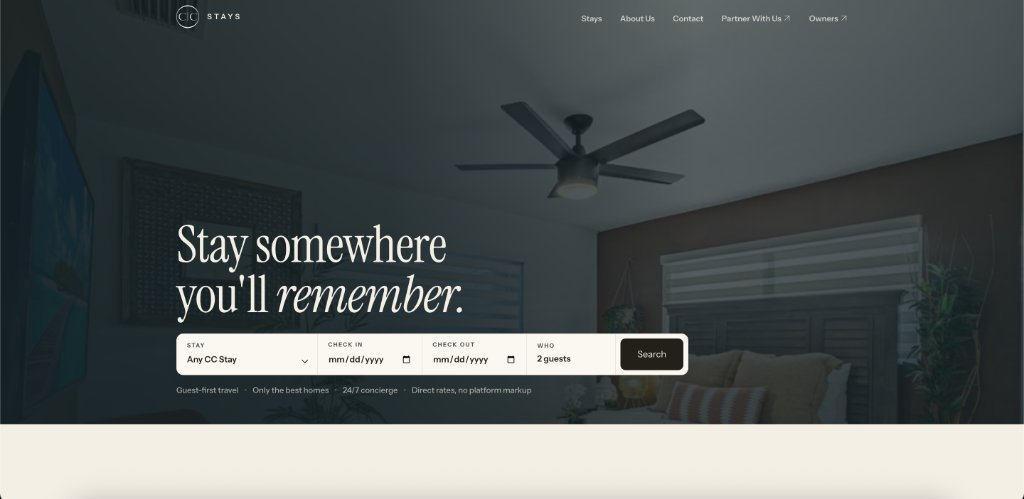
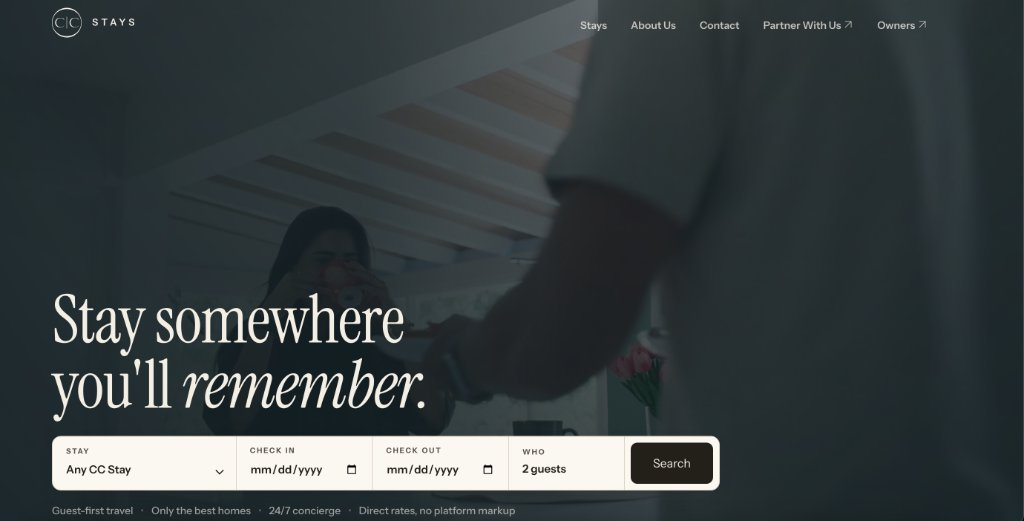
feat: add project showcase images and update project art components

diff --git a/src/content/project-art.tsx b/src/content/project-art.tsx
@@ -480,6 +480,17 @@ const studies = [
   FormlyStudy,
 ];
 export function ProjectArt({ index }: { index: number }) {
+  if (index === 0) {
+    return (
+      <div className="study-stage study-image-stage" aria-hidden="true">
+        <img
+          src="/assets/images/horace-showcase.png"
+          alt="Horace Learning Management System"
+          className="study-showcase-img"
+        />
+      </div>
+    );
+  }
   if (index === 1) {
     return (
       <div className="study-stage study-image-stage" aria-hidden="true">
@@ -497,6 +508,39 @@ export function ProjectArt({ index }: { index: number }) {
         <img
           src="/assets/images/ccstays-showcase.jpg"
           alt="CC Stays Luxury Direct Booking Portal"
+          className="study-showcase-img"
+        />
+      </div>
+    );
+  }
+  if (index === 3) {
+    return (
+      <div className="study-stage study-image-stage" aria-hidden="true">
+        <img
+          src="/assets/images/silosuites-showcase.jpg"
+          alt="Silo Suites Direct Booking Architecture"
+          className="study-showcase-img"
+        />
+      </div>
+    );
+  }
+  if (index === 4) {
+    return (
+      <div className="study-stage study-image-stage" aria-hidden="true">
+        <img
+          src="/assets/images/boajcare-showcase.jpg"
+          alt="BOAJ Healthcare Patient Platform"
+          className="study-showcase-img"
+        />
+      </div>
+    );
+  }
+  if (index === 5) {
+    return (
+      <div className="study-stage study-image-stage" aria-hidden="true">
+        <img
+          src="/assets/images/the-course-masters-showcase.jpg"
+          alt="The Course Masters E-Learning Platform"
           className="study-showcase-img"
         />
       </div>

diff --git a/src/content/site.ts b/src/content/site.ts
@@ -29,6 +29,7 @@ export const projects: Project[] = [
     name: "Horace LMS",
     category: "EdTech · Web Platform",
     industry: "Education & Learning",
+    image: "/assets/images/horace-showcase.png",
     url: "https://lms.horacelearning.com/",
     deliverables: ["Next.js Architecture", "MUI & TailwindCSS", "API Integration", "Role-Based Dashboards"],
     description:
@@ -76,6 +77,7 @@ export const projects: Project[] = [
     name: "Silosuites",
     category: "Hospitality · Booking Engine",
     industry: "Luxury Accommodations",
+    image: "/assets/images/silosuites-showcase.jpg",
     url: "https://silosuites.com/",
     deliverables: ["Custom Booking Plugin", "Stripe & SEPA Integration", "iCal Bi-Directional Sync", "Split Payments"],
     description:
@@ -91,6 +93,7 @@ export const projects: Project[] = [
     name: "BOAJ Healthcare",
     category: "HealthTech · Patient Platform",
     industry: "Healthcare & Home Care",
+    image: "/assets/images/boajcare-showcase.jpg",
     url: "https://www.boajcare.com/",
     deliverables: ["Next.js & TypeScript", "ShadCN UI & Tailwind", "HIPAA-Conscious UI", "Frictionless Inquiries"],
     description:
@@ -106,6 +109,7 @@ export const projects: Project[] = [
     name: "The Course Masters",
     category: "EdTech · E-Learning",
     industry: "Professional Education",
+    image: "/assets/images/the-course-masters-showcase.jpg",
     url: "https://thecoursemasters-frontend.vercel.app/",
     deliverables: ["UI/UX to Production Code", "Next.js & TailwindCSS", "Scalable Component Library", "API Integration"],
     description:

diff --git a/src/app/editorial.css b/src/app/editorial.css
@@ -1339,7 +1339,7 @@
   width: 100%;
   height: 100%;
   object-fit: cover;
-  object-position: top center;
+  object-position: left center;
   display: block;
 }
 .studio-project-visual:hover .study-stage {
